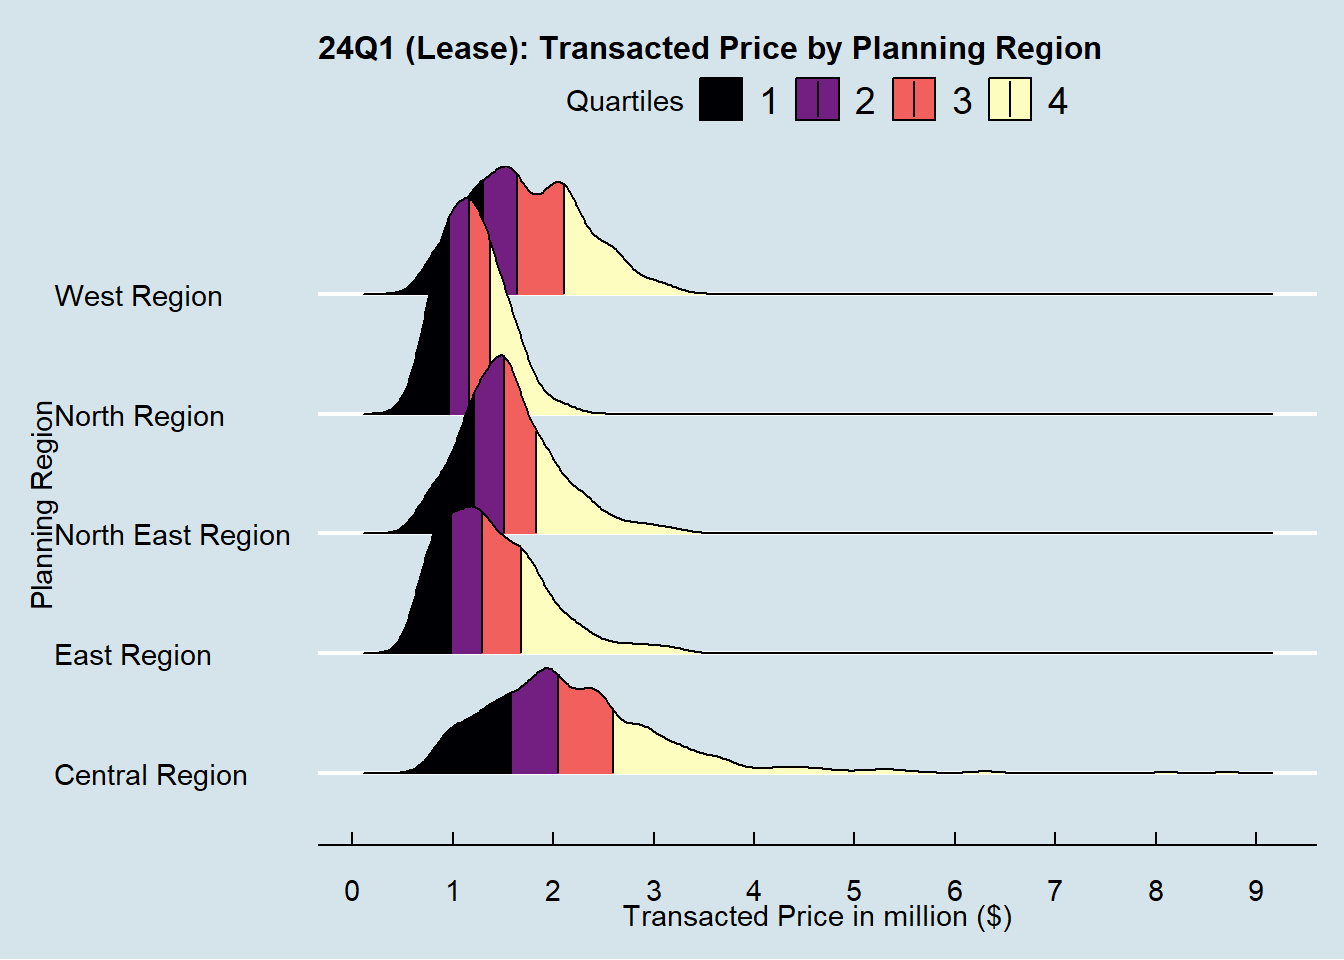
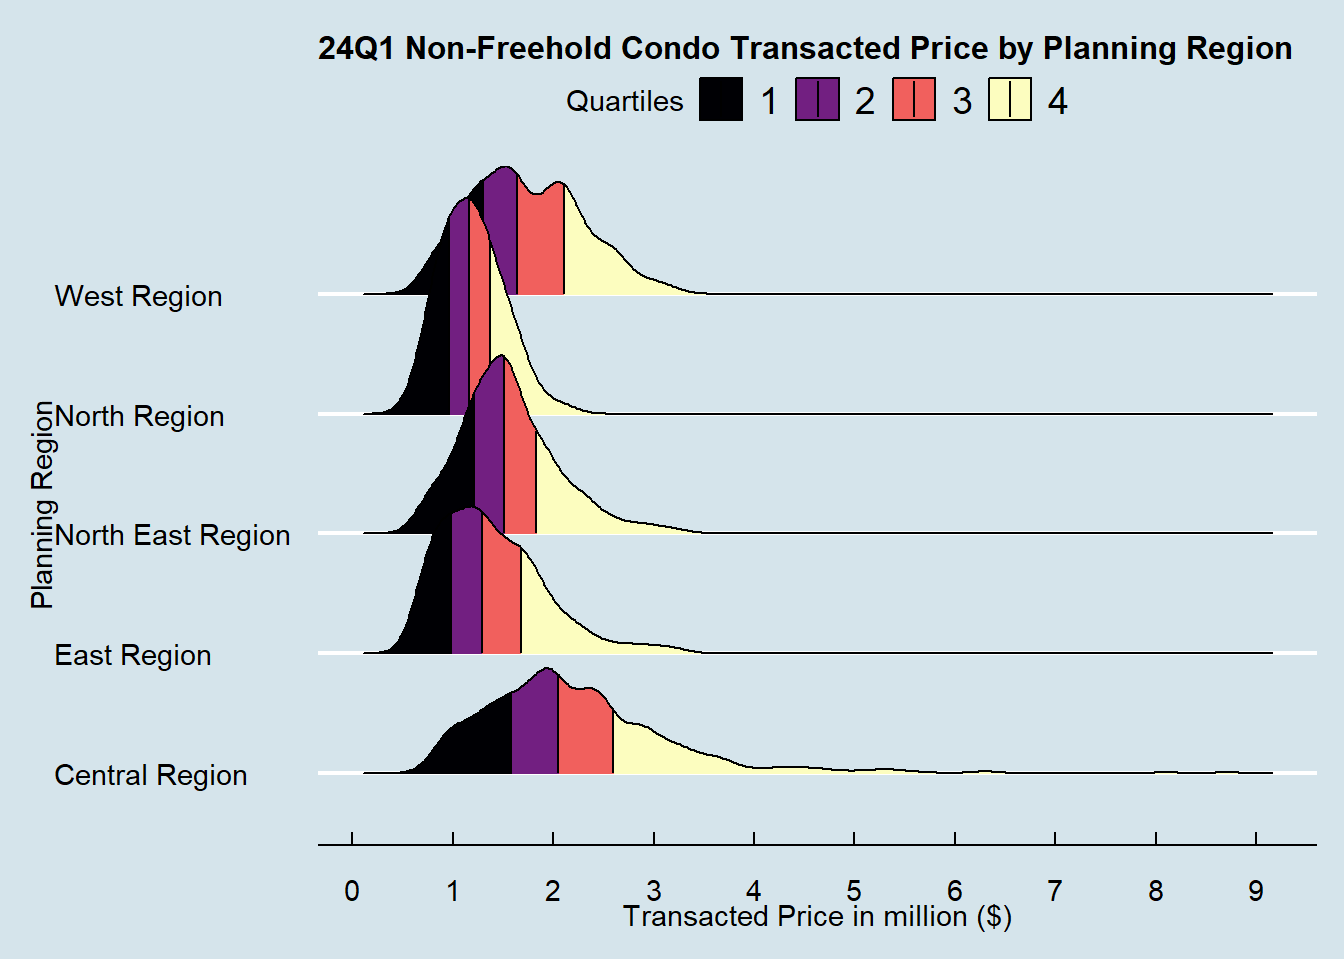
commit

Changed region(s): [[0.2812, 0.0312, 0.9688, 0.0625]]

diff --git a/_site/Take-home Exercise/Take-home_Ex01/Take-home_Ex01.html b/_site/Take-home Exercise/Take-home_Ex01/Take-home_Ex01.html
@@ -465,9 +465,9 @@ $ Quarter                       &lt;chr&gt; "23Q1", "23Q1", "23Q1", "23Q1", "23Q
 <p>On top of the data types that is automatically assigned by R to help the program know how to process it, we can split the data into 4 types of data category to help ourselves for future analytics application. You can refer to the FAQ, Data Dictionary and Methodology in <a href="https://www.ura.gov.sg/reis/dataDictionary">URA website</a>.</p>
 <table class="table">
 <colgroup>
-<col style="width: 24%">
 <col style="width: 25%">
-<col style="width: 24%">
+<col style="width: 25%">
+<col style="width: 25%">
 <col style="width: 25%">
 </colgroup>
 <thead>
@@ -822,7 +822,7 @@ $ Quarter                       &lt;chr&gt; "23Q1", "23Q1", "23Q1", "23Q1", "23Q
 <h2 class="anchored" data-anchor-id="data-visualisation">3.0 Data Visualisation</h2>
 <section id="selection-of-sub-markets" class="level3">
 <h3 class="anchored" data-anchor-id="selection-of-sub-markets">3.1.1 Selection of Sub-markets</h3>
-<p>In this section, we will focus on the Apartment(Strata) Condominium and Executive Condominium sub-market in Singapore, out of the 10 sub-markets identified in section 2.3.3. As stated in section <a href="https://va24-ry.netlify.app/take-home%20exercise/take-home_ex01/take-home_ex01#setting-the-scene">1.1 Setting the scene</a>, for families with monthly household income more than S$14,000, they need to turn to the private residential market.</p>
+<p>In this section, we would want to focus on the Apartment(Strata) Condominium and Executive Condominium sub-market in Singapore, out of the 10 sub-markets identified in section 2.3.3. As stated in section <a href="https://va24-ry.netlify.app/take-home%20exercise/take-home_ex01/take-home_ex01#setting-the-scene">1.1 Setting the scene</a>, for families with monthly household income more than S$14,000, they need to turn to the private residential market. However, due limited number of plots to be shown, we will take Condominium as example for the illustrations</p>
 <p>Assumptions and considerations for the selecting the sub-markets to visualise:</p>
 <ol type="1">
 <li><p><strong>Affordability</strong> - According to the this <a href="https://www.propertyguru.com.sg/property-guides/the-different-types-of-housing-in-singapore-9916">article</a>, apartment(Strata), Executive Condominium and Condominium are the next most affordable type of private housing if the family is not eligible to purchase public housing. This corroborate with the Median Transaction Price plot above.</p></li>
@@ -835,7 +835,8 @@ $ Quarter                       &lt;chr&gt; "23Q1", "23Q1", "23Q1", "23Q1", "23Q
 <h2 class="anchored" data-anchor-id="the-plots">3.2 The Plots</h2>
 <section id="the-pricing-across-planning-regions" class="level3">
 <h3 class="anchored" data-anchor-id="the-pricing-across-planning-regions">3.2.1 The Pricing across Planning Regions</h3>
-<p><strong>Plot 1: Pricing for non-freehold Condominium</strong> This first plot focus on Condominium that are not of Freehold Tenure. Compared to freehold property, these non-freehold Condominiums are relatively lower price. The plot below shows the distribution of <code>Transacted Price ($)</code> in the five <code>Planning Region</code> in Singapore, and reveal the median price of each region varies from 1 to 2 million, with North Region with a tighter spread at a lower price than the other four regions. The Central Region has the highest median at 2 million, with a widest spread. The 4th quantile of the Central Region consists of <code>Transacted Price ($)</code> between 2.5 to just after 9 million. This shows that the Condominiums with Lease are more affordable in the North and East Region in Singapore, with North East and West Region next, and finally the most expensive Condominium would be the ones found in Central Region.</p>
+<p><strong>Plot 1: Pricing for non-freehold Condominium</strong></p>
+<p>This first plot focus on Condominium that are not of Freehold Tenure. Compared to freehold property, these non-freehold Condominiums are relatively lower price. The plot below shows the distribution of <code>Transacted Price ($)</code> in the five <code>Planning Region</code> in Singapore, and reveal the median price of each region varies from 1 to 2 million, with North Region with a tighter spread at a lower price than the other four regions. The Central Region has the highest median at 2 million, with a widest spread. The 4th quantile of the Central Region consists of <code>Transacted Price ($)</code> between 2.5 to just after 9 million. This shows that the Condominiums with Lease are more affordable in the North and East Region in Singapore, with North East and West Region next, and finally the most expensive Condominium would be the ones found in Central Region.</p>
 <div class="tabset-margin-container"></div><div class="panel-tabset">
 <ul class="nav nav-tabs" role="tablist"><li class="nav-item" role="presentation"><a class="nav-link active" id="tabset-4-1-tab" data-bs-toggle="tab" data-bs-target="#tabset-4-1" role="tab" aria-controls="tabset-4-1" aria-selected="true">The Plot</a></li><li class="nav-item" role="presentation"><a class="nav-link" id="tabset-4-2-tab" data-bs-toggle="tab" data-bs-target="#tabset-4-2" role="tab" aria-controls="tabset-4-2" aria-selected="false">The Code</a></li></ul>
 <div class="tab-content">
@@ -869,7 +870,7 @@ $ Quarter                       &lt;chr&gt; "23Q1", "23Q1", "23Q1", "23Q1", "23Q
 <span id="cb15-15"><a href="#cb15-15" aria-hidden="true" tabindex="-1"></a>    <span class="at">labels =</span> <span class="fu">c</span>(<span class="dv">0</span>,<span class="dv">1</span>,<span class="dv">2</span>,<span class="dv">3</span>,<span class="dv">4</span>,<span class="dv">5</span>,<span class="dv">6</span>,<span class="dv">7</span>,<span class="dv">8</span>,<span class="dv">9</span>,<span class="dv">10</span>), </span>
 <span id="cb15-16"><a href="#cb15-16" aria-hidden="true" tabindex="-1"></a>    <span class="at">breaks =</span> <span class="fu">c</span>(<span class="dv">0</span>,<span class="dv">1000000</span>,<span class="dv">2000000</span>,<span class="dv">3000000</span>,<span class="dv">4000000</span>,<span class="dv">5000000</span>,<span class="dv">6000000</span>,<span class="dv">7000000</span>,<span class="dv">8000000</span>,<span class="dv">9000000</span>,<span class="dv">10000000</span>)) <span class="sc">+</span></span>
 <span id="cb15-17"><a href="#cb15-17" aria-hidden="true" tabindex="-1"></a>  <span class="fu">theme_economist</span>() <span class="sc">+</span> </span>
-<span id="cb15-18"><a href="#cb15-18" aria-hidden="true" tabindex="-1"></a>  <span class="fu">ggtitle</span>(<span class="st">"24Q1 (Lease): Transacted Price by Planning Region"</span>) <span class="sc">+</span></span>
+<span id="cb15-18"><a href="#cb15-18" aria-hidden="true" tabindex="-1"></a>  <span class="fu">ggtitle</span>(<span class="st">"24Q1 Non-Freehold Condo Transacted Price by Planning Region"</span>) <span class="sc">+</span></span>
 <span id="cb15-19"><a href="#cb15-19" aria-hidden="true" tabindex="-1"></a>  <span class="fu">theme</span>(<span class="at">plot.title =</span> <span class="fu">element_text</span>(<span class="at">size=</span><span class="dv">12</span>))</span></code><button title="Copy to Clipboard" class="code-copy-button"><i class="bi"></i></button></pre></div>
 </div>
 </div>
@@ -878,7 +879,8 @@ $ Quarter                       &lt;chr&gt; "23Q1", "23Q1", "23Q1", "23Q1", "23Q
 </section>
 <section id="the-median-unit-price-psf-in-past-5-quarters" class="level3">
 <h3 class="anchored" data-anchor-id="the-median-unit-price-psf-in-past-5-quarters">3.2.2 The Median Unit Price ($ PSF) in Past 5 Quarters</h3>
-<p><strong>Plot 2: Mean and Median Unit Price for non-freehold Condominium</strong> Plot 2 focus on the mean and median <code>Unit Price ($ PSF)</code> for the non-freehold Condominium in the Central Region. The Mean <code>Unit Price ($ PSF)</code> is represented by the red dot in each of the violin plot and boxplot. While we see a slight rise in the mean and median <code>Unit Price ($ PSF)</code> in 23Q2, where there are more transactions with <code>Unit Price ($ PSF)</code> in the $2,500 range, represented by the bulge at the top of the violin plot. For the rest of the quarters, the mean and median <code>Unit Price ($ PSF)</code> hovers around the range of $2,000. Despite the mean and median are at $2,000 for the 24Q1, there is also a sizable transaction of <code>Unit Price ($ PSF)</code> of $3,000 happening in 24Q1, as represented by the slight bulge at the top of the violin plot.</p>
+<p><strong>Plot 2: Mean and Median Unit Price for non-freehold Condominium</strong></p>
+<p>Plot 2 focus on the mean and median <code>Unit Price ($ PSF)</code> for the non-freehold Condominium in the Central Region. The Mean <code>Unit Price ($ PSF)</code> is represented by the red dot in each of the violin plot and boxplot. While we see a slight rise in the mean and median <code>Unit Price ($ PSF)</code> in 23Q2, where there are more transactions with <code>Unit Price ($ PSF)</code> in the $2,500 range, represented by the bulge at the top of the violin plot. For the rest of the quarters, the mean and median <code>Unit Price ($ PSF)</code> hovers around the range of $2,000. Despite the mean and median are at $2,000 for the 24Q1, there is also a sizable transaction of <code>Unit Price ($ PSF)</code> of $3,000 happening in 24Q1, as represented by the slight bulge at the top of the violin plot.</p>
 <div class="tabset-margin-container"></div><div class="panel-tabset">
 <ul class="nav nav-tabs" role="tablist"><li class="nav-item" role="presentation"><a class="nav-link active" id="tabset-5-1-tab" data-bs-toggle="tab" data-bs-target="#tabset-5-1" role="tab" aria-controls="tabset-5-1" aria-selected="true">The Plot</a></li><li class="nav-item" role="presentation"><a class="nav-link" id="tabset-5-2-tab" data-bs-toggle="tab" data-bs-target="#tabset-5-2" role="tab" aria-controls="tabset-5-2" aria-selected="false">The Code</a></li></ul>
 <div class="tab-content">
@@ -922,7 +924,8 @@ $ Quarter                       &lt;chr&gt; "23Q1", "23Q1", "23Q1", "23Q1", "23Q
 </section>
 <section id="purchaser-address-indicator" class="level3">
 <h3 class="anchored" data-anchor-id="purchaser-address-indicator">3.2.3 Purchaser Address Indicator</h3>
-<p><strong>Plot 3: Purchaser Address Indicator for non-freehold Condominium</strong> Plot 3 focus on the top and bottom 5% of the different types of purchasers for non-freehold Condominium in the Central Region. We assume that the N.A type are purchasers who do not own any property in Singapore. The top 5% of the purchasers with Private Address purchase the units that are priced from $4.5-$9 million unit. For HDB and N.A categories, the top 5% are purchasing units that is priced between $3 to 4 million. Both bottom 5% Private and HDB categories purchase price of $1 million, while the bottom 5% N.A category purchasers are buying unit just above $1 million. The plausible reason is that purchaser in N.A. category may want to buy a unit for their own stay since they do not own any other properties. Hence, they are paying slightly more for a larger unit relative to other two types of purchasers, who might be buying studio units for rental income.</p>
+<p><strong>Plot 3: Purchaser Address Indicator for non-freehold Condominium</strong></p>
+<p>Plot 3 focus on the top and bottom 5% of the different types of purchasers for non-freehold Condominium in the Central Region. We assume that the N.A type are purchasers who do not own any property in Singapore. The top 5% of the purchasers with Private Address purchase the units that are priced from $4.5-$9 million unit. For HDB and N.A categories, the top 5% are purchasing units that is priced between $3 to 4 million. Both bottom 5% Private and HDB categories purchase price of $1 million, while the bottom 5% N.A category purchasers are buying unit just above $1 million. The plausible reason is that purchaser in N.A. category may want to buy a unit for their own stay since they do not own any other properties. Hence, they are paying slightly more for a larger unit relative to other two types of purchasers, who might be buying studio units for rental income.</p>
 <div class="tabset-margin-container"></div><div class="panel-tabset">
 <ul class="nav nav-tabs" role="tablist"><li class="nav-item" role="presentation"><a class="nav-link active" id="tabset-6-1-tab" data-bs-toggle="tab" data-bs-target="#tabset-6-1" role="tab" aria-controls="tabset-6-1" aria-selected="true">The Plot</a></li><li class="nav-item" role="presentation"><a class="nav-link" id="tabset-6-2-tab" data-bs-toggle="tab" data-bs-target="#tabset-6-2" role="tab" aria-controls="tabset-6-2" aria-selected="false">The Code</a></li></ul>
 <div class="tab-content">
